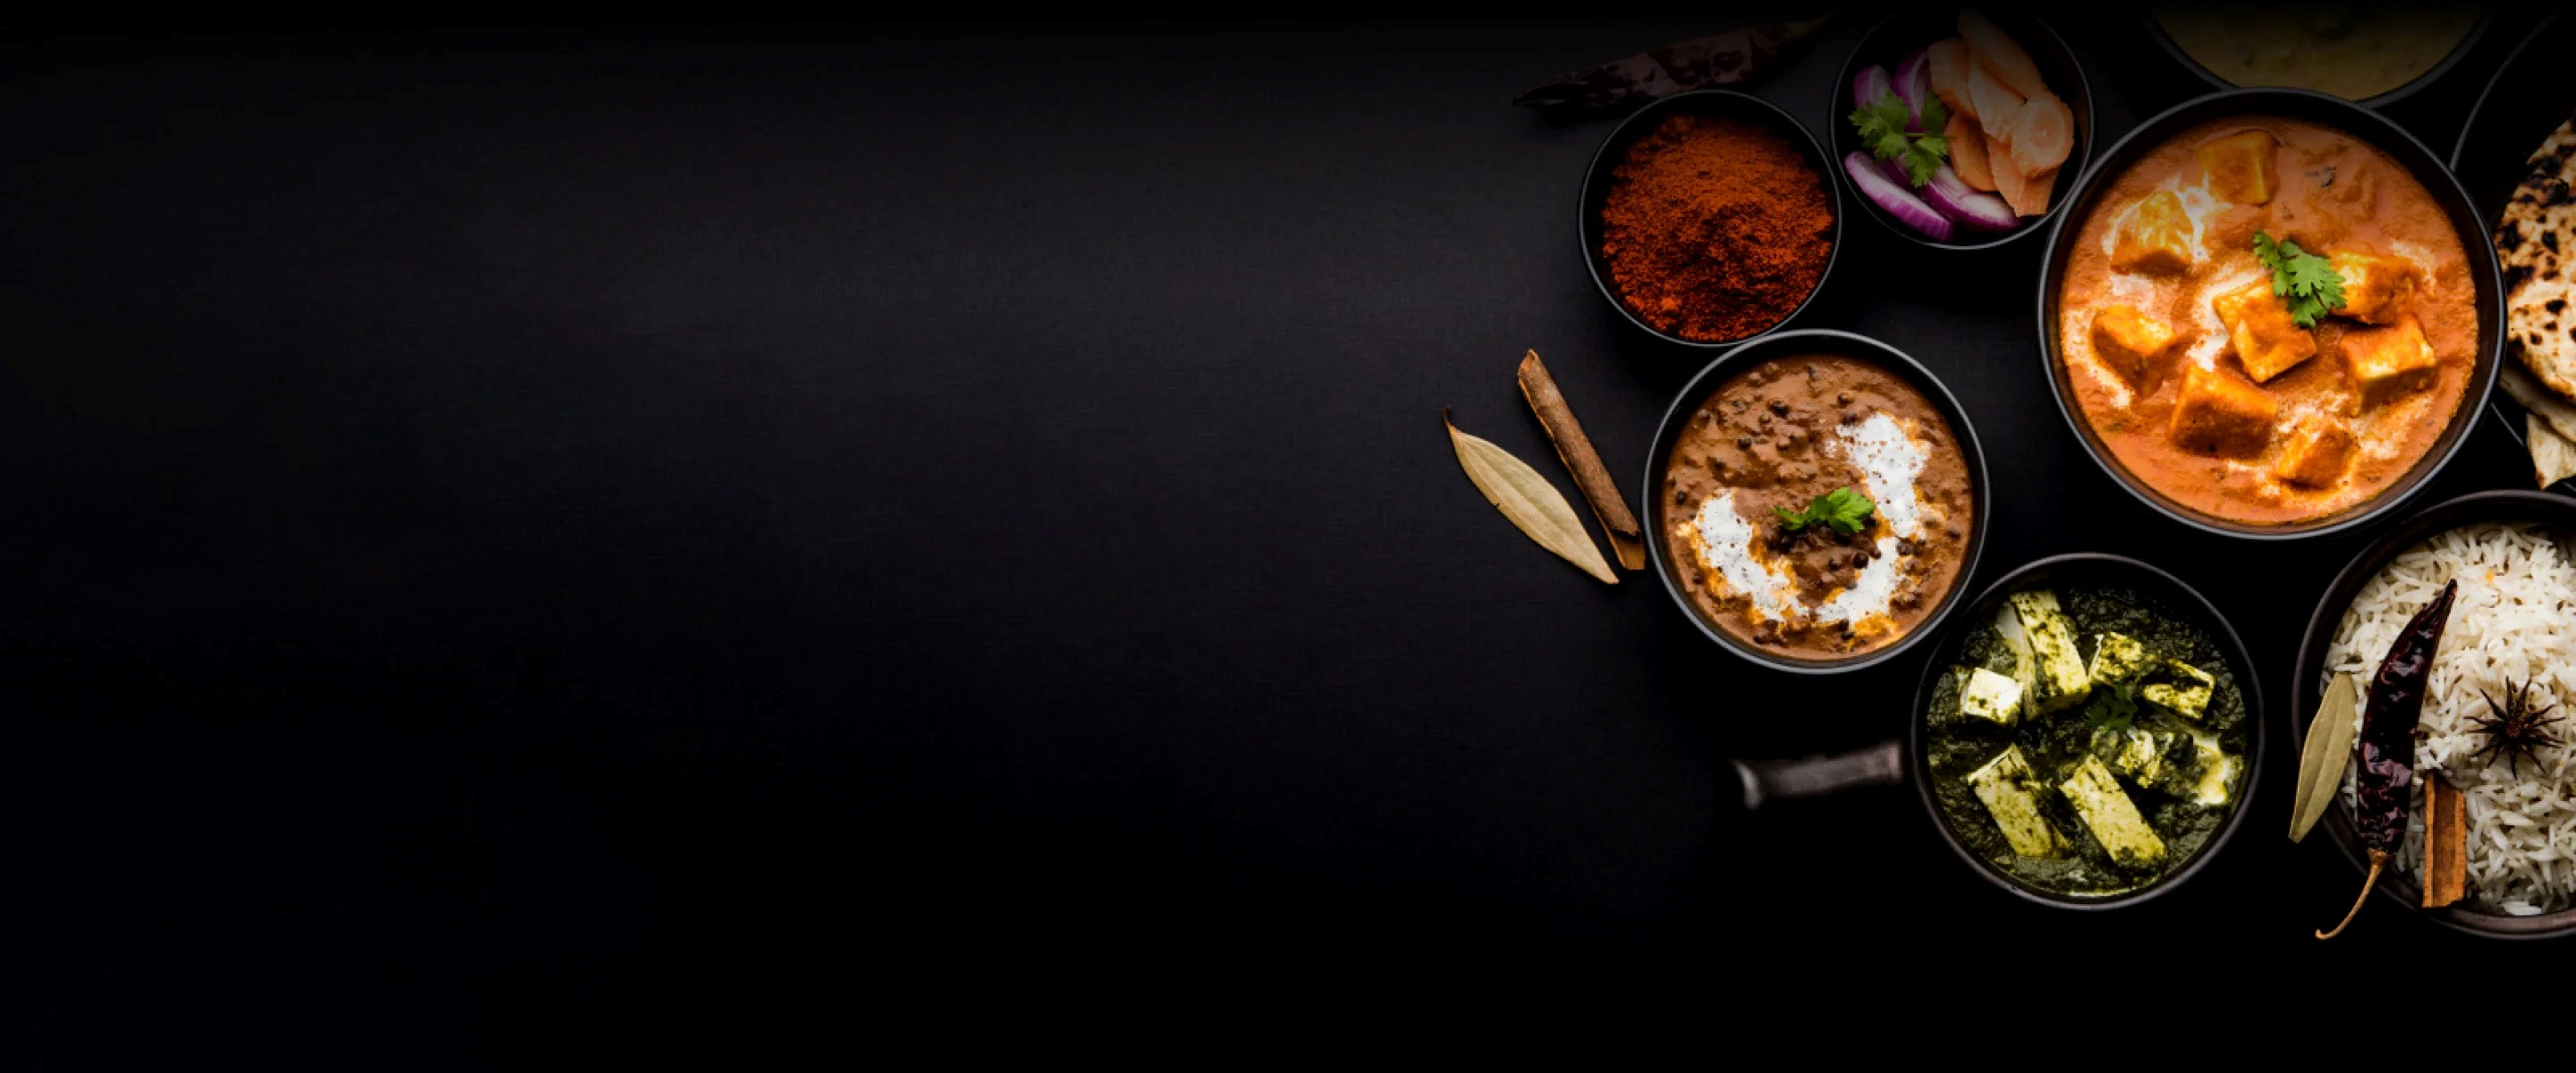
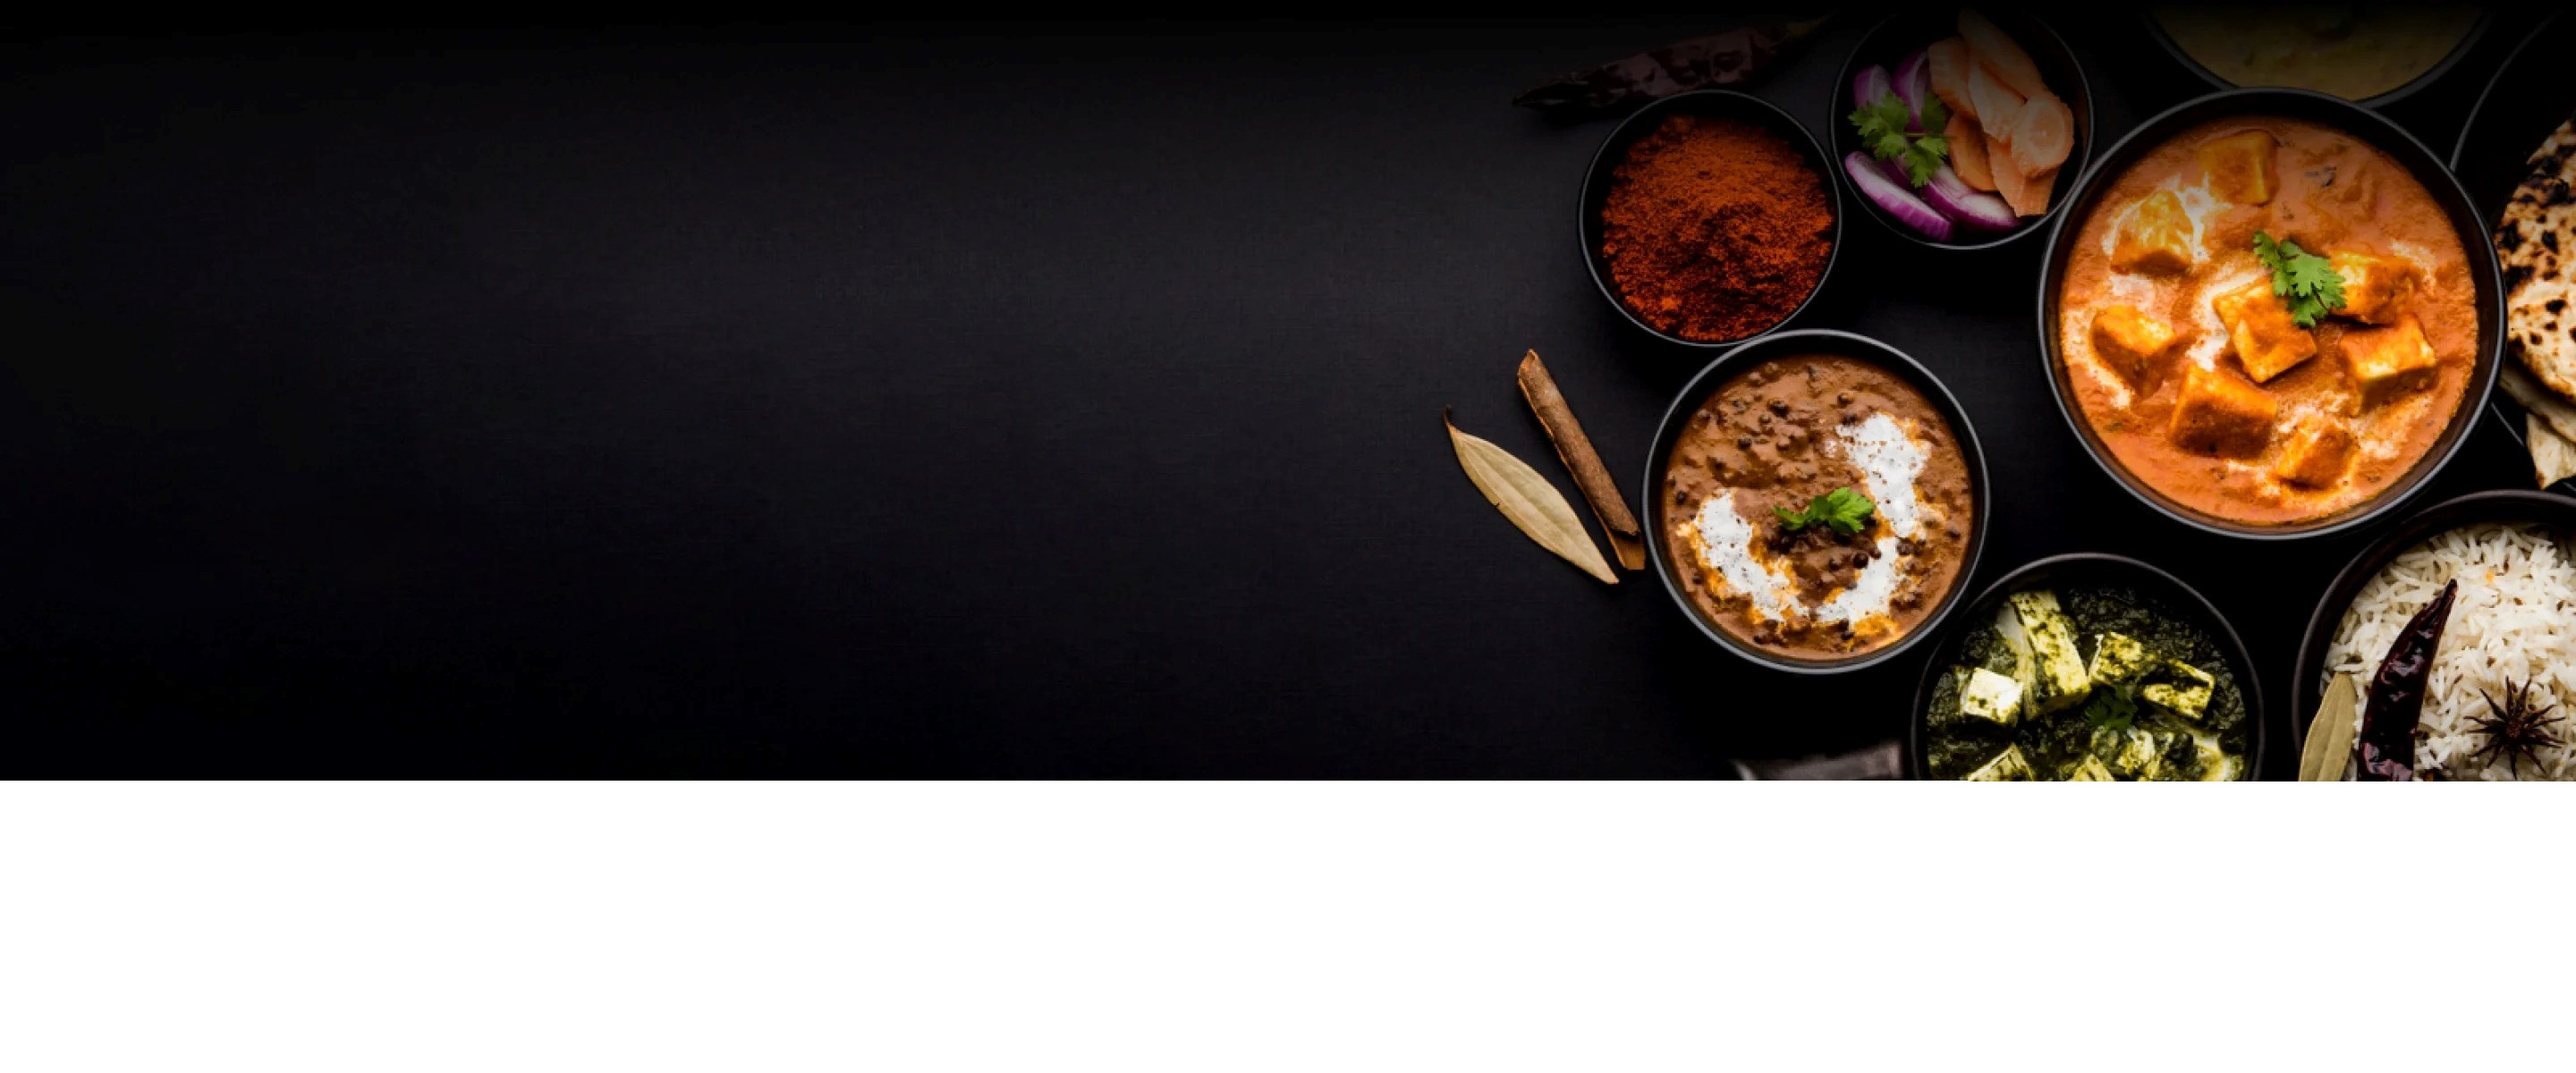
"adjustments"

Changed region(s): [[0.0, 0.7092, 1.0, 1.0]]

diff --git a/frontend/src/pages/Home.js b/frontend/src/pages/Home.js
@@ -2,79 +2,78 @@ import React from 'react'
 import { Link, useNavigate } from 'react-router-dom';
 
 export default function Home() {
-        const navigate = useNavigate();
-      
-        const handleSubmit = (event) => {
-          navigate('/restaurant-registration')
-        }
-        const handleLogin = (event) => {
-          navigate('/restaurant-login')
-        }
+  const navigate = useNavigate();
+
+  const handleSubmit = (event) => {
+    navigate('/restaurant-registration')
+  }
+  const handleLogin = (event) => {
+    navigate('/restaurant-login')
+  }
 
   return (
     <div>
       <div style={{
-        // backgroundImage: `url(${process.env.PUBLIC_URL}/front.jpg)`,
         backgroundImage: 'url(/bgi.jpg)',
         backgroundSize: 'cover',
+        backgroundPosition: 'center',
         width: '100%',
-        height: '70vh',
+        height: '100vh',
         display: 'flex',
         flexDirection: 'column',
         justifyContent: 'flex-start',
         alignItems: 'flex-start',
         position: 'relative',
       }}>
-        <div className="flex items-center justify-between gap-2" style={{ width: '100%' }}>
-          <h1 className='text-4xl font-bold text-center' style={{ color: '#fff', margin: '0 200px', fontStyle: 'italic' }}>Num-Num</h1>
+        <div className="flex items-center mt-5 justify-between gap-2 px-4 md:px-8 lg:px-72 w-full">
+          <h1 className='text-2xl md:text-4xl font-bold text-center italic text-white'>Num-Num</h1>
 
           <nav>
-            <ul  style={{ display: 'flex', listStyleType: 'none', margin: '50px 200px 0px 0px', padding: 0 }}>
-              <li className='rounded-md' style={{ margin: '0 10px', border: '1px solid #fff', padding: '5px 10px' }}>
-                <a href="#advertise" style={{ textDecoration: 'none', color: 'white' }}>Advertise</a>
+            <ul className="flex flex-wrap items-center">
+              <li className='rounded-md mx-2 my-1 border border-white py-1 px-2'>
+                <a href="#advertise" className='text-white hover:text-gray-300 text-sm md:text-base'>Advertise</a>
               </li>
-              <li className='rounded-md' style={{ margin: '0 10px', border: '1px solid #fff', padding: '5px 10px' }}>
-                <Link to="/restaurant-login" style={{ textDecoration: 'none', color: 'white' }}>Login</Link>
+              <li className='rounded-md mx-2 my-1 border border-white py-1 px-2'>
+                <Link to="/restaurant-login" className='text-white hover:text-gray-300 text-sm md:text-base'>Login</Link>
               </li>
-              <li className='rounded-md bg-blue-500' style={{ margin: '0 10px', border: '1px solid #fff', padding: '5px 10px',  }}>
-                <Link to="/restaurant-registration" style={{ textDecoration: 'none', color: 'white' }}>Create Account</Link>
+              <li className='rounded-md mx-2 my-1 bg-blue-500 py-1 px-2'>
+                <Link to="/restaurant-registration" className='text-white hover:text-gray-300 text-sm md:text-base'>Create Account</Link>
               </li>
             </ul>
           </nav>
         </div>
-        <div style={{ margin: '25px 200px 30px', textAlign: 'left', padding: '0' }}>
-          <p className='text-2xl' style={{ color: '#fff' }}>Partner with Num-Num <br></br>
-            at 0% commission for the 1st month!</p> <br/>
-           <p className='text-white'> And get ads worth INR 1500. Valid for new restaurant partners in select cities.</p>
+
+
+        <div className="px-4 md:px-8 lg:px-96 text-left mt-8 md:mt-16">
+          <p className='text-xl md:text-2xl text-white'>Partner with Num-Num <br></br>
+            at 0% commission for the 1st month!</p> <br />
+          <p className='text-white text-sm md:text-base'>And get ads worth INR 1500. Valid for new restaurant partners in select cities.</p>
           <div>
-            <div style={{ display: 'flex', justifyContent: 'space-between', marginTop: '50px' }}>
-              <a className='rounded-md bg-blue-500  hover:bg-blue-600 text-center cursor-pointer justify-center content-center size-12' onClick={handleSubmit} style={{ width: '45%',  textDecoration: 'none', color: 'white' }}>Register Your Restaurant</a>
-              <a className=' bg-white rounded-md text-center justify-center ease-in-out hover:bg-gray-400 cursor-pointer content-center size-12' onClick={handleLogin} style={{ padding: '10px', width: '45%', textAlign: 'center', textDecoration: 'none', color: 'black' }}>Login your Restaurant</a>
+            <div className="flex flex-col md:flex-row justify-between mt-8">
+              <a className='rounded-md bg-blue-500 hover:bg-blue-600 text-center cursor-pointer justify-center content-center text-sm md:text-base py-2 px-4 mb-4 md:mb-0 md:w-auto w-full' onClick={handleSubmit}>Register Your Restaurant</a>
+              <a className='bg-white rounded-md text-center justify-center ease-in-out hover:bg-gray-400 cursor-pointer content-center text-sm md:text-base py-2 px-4 md:w-auto w-full' onClick={handleLogin}>Login your Restaurant</a>
             </div>
-            <p className='mt-4' style={{ color: '#fff' }}>Need help? Contact +91 97-16-16-16-16</p>
+            <p className='mt-4 text-white text-sm md:text-base'>Need help? Contact +91 97-16-16-16-16</p>
           </div>
         </div>
 
 
-        <div className="container mx-auto px-7">
-       <div className=" rounded-lg p-8 max-w-4xl mx-auto">
-    
-            <div className="bg-white text-black rounded-lg p-6">
-              <h3 className="text-xl font-bold mb-4">
-                Get started with online ordering
-              </h3>
-              <p className="text-sm mb-4">
-                Please keep the documents ready for a smooth signup
-              </p>
-              <ul className="list-disc list-inside">
-                <li>FSSAI license copy (apply now)</li>
-                <li>PAN card copy</li>
-                <li>Regular GSTIN (apply now)</li>
-                <li>Bank account details</li>
-                <li>Your restaurant menu</li>
-                <li>Dish images for top 5 items</li>
-              </ul>
-            </div>
+
+        <div className="container mt-2 mx-auto px-4 md:px-7 md:py-7 mt-8">
+          <div className=" rounded-lg p-4 md:p-8 max-w-4xl mx-auto bg-white text-black">
+            <h3 className="text-xl md:text-2xl font-bold mb-4">
+              Get started with online ordering
+            </h3>
+            <p className="text-sm md:text-base mb-3">
+              Please keep the documents ready for a smooth signup
+            </p>
+            <ul className="list-disc list-inside">
+              <li className='text-sm md:text-base'>FSSAI license copy (apply now)</li>
+              <li className='text-sm md:text-base'>PAN card copy</li>
+              <li className='text-sm md:text-base'>Regular GSTIN (apply now)</li>
+              <li className='text-sm md:text-base'>Bank account details</li>
+              <li className='text-sm md:text-base'>Your restaurant menus</li>
+            </ul>
           </div>
         </div>
 
@@ -82,4 +81,3 @@ export default function Home() {
     </div>
   );
 };
-
